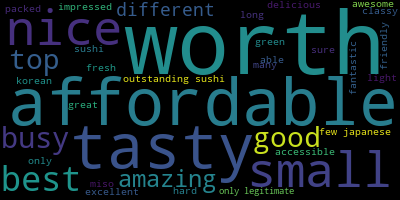
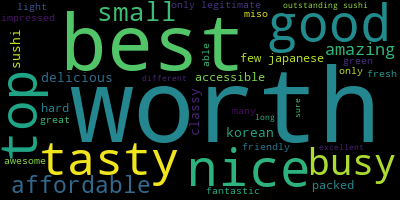
adding wordcloud and google api and new model

diff --git a/digin/templates/polls/detail.html b/digin/templates/polls/detail.html
@@ -63,10 +63,10 @@ input[type=choice] {
 {% csrf_token %}
 {% for choice in choices %}
     <input type="radio" name="choice" id="choice{{ forloop.counter }}" value="{{ choice.id }}" />
-    <label for="choice{{ forloop.counter }}">{{ choice.choice_text }}: {{ choice.votes }} votes
+    <label for="choice{{ forloop.counter }}">{{ choice.name }}: {{ choice.votes }} votes
     	<div class="hover_img">
     	{% load static %}
-	     <a href="#">See tags word cloud<span><img src="{% static img_url %}" alt="image" height="100" /></span></a>
+	     <a href="#">See tags word cloud<span><img src="{% static "" %}{{choice.place_id.place_id}}.png" alt="image" height="100" /></span></a>
 		</div>
     </label>
     <br />
@@ -84,9 +84,7 @@ input[type=choice] {
 
 {% csrf_token %}
     <input id="choice" type="text" name="choice" value="{{ choice }}" maxlength="200" style="width:200px">
-	  <input id="address" type="hidden" name="address" value="" maxlength="200">
-
-    <input id="phone" type="hidden" name="phone" value="" maxlength="200">
+	  
     <input id="placeId" type="hidden" name="placeId" value="" maxlength="200">
 
     <input type="submit" value="Add Choice">
@@ -148,14 +146,12 @@ input[type=choice] {
 	}
 	function onPlaceChanged(){
 		var place=autocomplete.getPlace();
-		var inp_address=document.getElementById("address");
-		inp_address.value=place.formatted_address;
-    var inp_phone=document.getElementById("phone");
-    inp_phone.value=place.formatted_phone_number;
-    var inp_place_id=document.getElementById("placeId");
-    inp_place_id.value=place.place_id;
-    console.log(place);
-    console.log(place.place_id);
+		console.log(place);
+	    var inp_place_id=document.getElementById("placeId");
+	    inp_place_id.value=place.place_id;
+	    console.log(inp_place_id);
+	    console.log(place);
+	    console.log(place.place_id);
     var inp_choice=document.getElementById("choice");
 		choice.value=place.name;
 		console.log(place.formatted_address);

diff --git a/digin/polls/review_views.py b/digin/polls/review_views.py
@@ -3,26 +3,29 @@ from wordcloud import WordCloud, STOPWORDS, ImageColorGenerator
 import matplotlib.pyplot as plt
 import collections
 
-dummy_reviews = [
-"Outstanding sushi / Japanese with a Korean twist cuisine in a beautifully decorated restaurant space.  The produce and food served here are top quality. Service is also uniformly excellent.  This place gets busy at lunch so expect to wait, but it's worth it! The sake don I had was amazing with sushi grade salmon and sushi rice, veggies, seaweed, salmon roe, served with a miso soup. Everyone in my lunch group was very impressed with this restaurant. We will be back!",
-"Been to a few Japanese restaurants in the region and Sakanaya is certainly the one that takes the cake according to to my taste buds. It's a small place, but well worth the wait to experience some tasty fireworks.",
-"The standard for ramen/rolls/sushi in Chambana. It's hard to find this level of quality even in Chicago. Pricey, sure, but there's a reason the place is still always packed. Food = top notch. Service = fantastic. The only downside would be the long lines during peak hours.",
-"The sushi here is awesome, probably the best in Urbana-Champaign",
-"I love coming here for dinner, I have come here many times with friends or on dates. It's always busy since it is so small, so make sure to come early, but it is certainly worth the wait. I love the sushi and the ramen, especially the spider Maki which I order every time. The seaweed salad and miso soup are also really good. Servers are nice.",
-"Best place on Campus town for sushi! Waiters are super friendly and explain all dishes very well. Their ramen is really light and tasty as well.A nice ambience for a classy dinner or date",
-"Sakanaya is the only legitimate sushi and ramen restaurant on campus. It is affordable, on green street, and worth every penny! If you haven't been to Sakanaya, you haven't been to Urbana-Champaign.",
-"If you want some good sushi in Champaign that’s affordable, definitely the place to go!! It’s on campus so it’s super accessible too.",
-"Great place to eat sushi. Fresh and delicious",
-"My husband and I love sushi and are from Wisconsin and crossed our fingers going in because we had never been to this restaurant. The service the moment we walked in was amazing ! We ordered 4 different rolls to share and within 25 minutes we had gotten all our rolls and were able to continue our trip! Highly recommended !",
-	]
+# dummy_reviews = [
+# "Outstanding sushi / Japanese with a Korean twist cuisine in a beautifully decorated restaurant space.  The produce and food served here are top quality. Service is also uniformly excellent.  This place gets busy at lunch so expect to wait, but it's worth it! The sake don I had was amazing with sushi grade salmon and sushi rice, veggies, seaweed, salmon roe, served with a miso soup. Everyone in my lunch group was very impressed with this restaurant. We will be back!",
+# "Been to a few Japanese restaurants in the region and Sakanaya is certainly the one that takes the cake according to to my taste buds. It's a small place, but well worth the wait to experience some tasty fireworks.",
+# "The standard for ramen/rolls/sushi in Chambana. It's hard to find this level of quality even in Chicago. Pricey, sure, but there's a reason the place is still always packed. Food = top notch. Service = fantastic. The only downside would be the long lines during peak hours.",
+# "The sushi here is awesome, probably the best in Urbana-Champaign",
+# "I love coming here for dinner, I have come here many times with friends or on dates. It's always busy since it is so small, so make sure to come early, but it is certainly worth the wait. I love the sushi and the ramen, especially the spider Maki which I order every time. The seaweed salad and miso soup are also really good. Servers are nice.",
+# "Best place on Campus town for sushi! Waiters are super friendly and explain all dishes very well. Their ramen is really light and tasty as well.A nice ambience for a classy dinner or date",
+# "Sakanaya is the only legitimate sushi and ramen restaurant on campus. It is affordable, on green street, and worth every penny! If you haven't been to Sakanaya, you haven't been to Urbana-Champaign.",
+# "If you want some good sushi in Champaign that’s affordable, definitely the place to go!! It’s on campus so it’s super accessible too.",
+# "Great place to eat sushi. Fresh and delicious",
+# "My husband and I love sushi and are from Wisconsin and crossed our fingers going in because we had never been to this restaurant. The service the moment we walked in was amazing ! We ordered 4 different rolls to share and within 25 minutes we had gotten all our rolls and were able to continue our trip! Highly recommended !",
+# 	]
+
 # define the set of valid Part-of-Speeches
 pos = {'ADJ'}
 
 
-def get_wordcloud(restaurant_id):
-	
+
+def generate_wordcloud(place_id, reviews):
+	print(place_id)
+	print(reviews)
 	freq = collections.defaultdict(float)
-	for review in dummy_reviews:
+	for review in reviews:
 		# 1. create a TextRank extractor.
 		extractor = pke.unsupervised.TextRank()
 
@@ -44,7 +47,8 @@ def get_wordcloud(restaurant_id):
 			freq[keyphrase[0]] += 1
 
 	wordcloud = WordCloud().generate_from_frequencies(freq)
-	filename = str(restaurant_id) + ".png"
+	filename = str(place_id) + ".png"
 	plt.imsave("digin/static-asset/" + filename, wordcloud)
-	return filename
+	# plt.imsave(filename, wordcloud)
 
+	return filename

diff --git a/digin/polls/views.py b/digin/polls/views.py
@@ -4,7 +4,7 @@ from django.http import HttpResponseRedirect
 from django.urls import reverse
 from django.views import generic
 
-from .models import Choice, Question, Vote, Poll_members, Archive_question
+from .models import Choice, Question, Vote, Poll_members, Archive_question, Place
 from users.models import CustomUser
 from django.contrib.auth.decorators import login_required
 from django.views.generic import TemplateView
@@ -15,7 +15,7 @@ from django.db.models.expressions import RawSQL
 from django.utils.timesince import timesince
 import collections
 import random
-from .review_views import get_wordcloud
+from .review_views import generate_wordcloud
 from .googleUtil import get_restaurant_attr
 import json
 
@@ -80,8 +80,9 @@ class DetailView(generic.DetailView):
 
     def get_context_data(self, **kwargs):
         context = super(DetailView, self).get_context_data(**kwargs)
-        context['choices'] = Choice.objects.raw("SELECT * FROM polls_choice WHERE question_id = %s",[context["question"].id])
-        context['img_url'] = get_wordcloud(restaurant_id = 2)
+        context["choices"] = Choice.objects.raw("SELECT * FROM polls_choice WHERE question_id = %s",[context["question"].id])
+        
+        
         if context["question"].is_active is False:
             context["winner"] = Choice.objects.get(id=Archive_question.objects.get(question=context["question"]).best_choice.id)
             return context
@@ -95,7 +96,6 @@ class DetailView(generic.DetailView):
         # print(context["question"].deadline - timezone.now() > 0)
         ## the context is a list of the tasks of the Project##
         ##THIS IS THE ERROR##
-        
         
         return context
 
@@ -166,10 +166,7 @@ def addChoice(request, question_id):
 
     current_user=request.user
     inp_value = request.POST.get('choice')
-    inp_address=request.POST.get('address')
-    print(inp_address)
-    inp_phone=request.POST.get('phone')
-    print(inp_phone)
+    
     place_id=request.POST.get('placeId')
     print("place_id:{}".format(place_id))
     if place_id != "":
@@ -180,13 +177,30 @@ def addChoice(request, question_id):
         question = Question.objects.raw("SELECT * FROM polls_question WHERE id = %s", [question_id])[0]
     except Question.DoesNotExist:
         raise Http404("Question does not exist")
+
+    generate_wordcloud(place_id, attrs[6])
+    print(attrs)
+    attrs[6] = json.dumps(attrs[6])
     cursor = connection.cursor()
-    
-    cursor.execute("INSERT INTO polls_choice"
-                "(choice_text, votes, owner_id, question_id, address, phone, rating, price_level, place_id, reviews, latitude, longitude, website)"
-                "VALUES (%s,   %s,    %s,       %s,          %s,      %s,    %s,     %s,          %s,       %s,       %s,       %s,       %s)",
-                [attrs[0], 0, request.user.id, question_id, attrs[1], attrs[2], attrs[3], attrs[4], attrs[5], json.dumps(attrs[6]), attrs[7], attrs[8], attrs[9]]
-                )
+
+    place = Place.objects.raw("SELECT * FROM polls_place WHERE place_id=%s", [attrs[5]])
+    # print(place)
+    # print(type(place))
+    if (len(list(place))==0):
+        cursor.execute("INSERT INTO polls_place"
+                    "(name, address, phone, rating, price_level, place_id, reviews, latitude, longitude, website)"
+                    "VALUES (%s, %s, %s, %s, %s, %s, %s, %s, %s, %s)",
+                    attrs
+                    )
+    choice = Choice.objects.raw("SELECT * FROM polls_choice WHERE place_id=%s AND question_id=%s", [attrs[5], question_id])
+    if (len(list(choice)) == 0):
+        cursor.execute("INSERT INTO polls_choice"
+                    "(question_id, owner_id, place_id, name, votes)"
+                    "VALUES (%s, %s, %s, %s, 0)",
+                    [question_id, current_user.id, attrs[5], attrs[0]]
+                    )
+
+
     # question.choice_set.create(choice_text=inp_value,votes=0,owner=request.user)
     return HttpResponseRedirect(reverse('polls:detail', args=(question.id,)))
     

diff --git a/digin/polls/models.py b/digin/polls/models.py
@@ -21,6 +21,20 @@ class Poll_members(models.Model):
 	member = models.ForeignKey(User, on_delete=models.CASCADE)
 
 	
+
+class Place(models.Model):
+	name = models.CharField(max_length=200)
+	phone = models.CharField(max_length=200, blank=True)
+	address = models.CharField(max_length=200)
+	price_level = models.IntegerField(blank=True)
+	rating = models.IntegerField()
+	latitude = models.IntegerField()
+	longitude = models.IntegerField()
+	place_id = models.CharField(max_length=200, unique=True)
+	website = models.CharField(max_length=200, blank=True)
+	reviews = models.CharField(max_length=10000)
+
+
 class Choice(models.Model):
 	'''
 	need to have unique field of question and choice_text
@@ -28,24 +42,13 @@ class Choice(models.Model):
 	question = models.ForeignKey(Question, on_delete=models.CASCADE)
 	votes = models.IntegerField(default=0)
 	owner =  models.ForeignKey(User, on_delete=models.CASCADE)
+	place_id = models.ForeignKey(Place, to_field="place_id", db_column="place_id", on_delete=models.CASCADE)
+	name = models.CharField(max_length=200)
 	
-	choice_text = models.CharField(max_length=200)
-	phone = models.CharField(max_length=200, blank=True)
-	address = models.CharField(max_length=200)
-	price_level = models.IntegerField(blank=True)
-	rating = models.IntegerField()
-	latitude = models.IntegerField()
-	longitude = models.IntegerField()
-	place_id = models.CharField(max_length=200)
-	website = models.CharField(max_length=200, blank=True)
-	reviews = models.CharField(max_length=2000)
-
-	def __str__(self):
-		return self.choice_text
 
 class Archive_question(models.Model):
 	question = models.ForeignKey(Question, on_delete=models.CASCADE)
-	best_choice = models.ForeignKey(Choice, on_delete=models.CASCADE)
+	place_id = models.ForeignKey(Place, to_field="place_id", db_column="place_id", on_delete=models.CASCADE)
 
 
 class Vote(models.Model):

diff --git a/digin/polls/migrations/0001_initial.py b/digin/polls/migrations/0001_initial.py
@@ -1,4 +1,4 @@
-# Generated by Django 2.1.7 on 2019-04-15 23:55
+# Generated by Django 2.1.7 on 2019-04-16 20:04
 
 from django.db import migrations, models
 import django.db.models.deletion
@@ -22,8 +22,22 @@ class Migration(migrations.Migration):
             name='Choice',
             fields=[
                 ('id', models.AutoField(auto_created=True, primary_key=True, serialize=False, verbose_name='ID')),
-                ('choice_text', models.CharField(max_length=200)),
-                ('votes', models.IntegerField(default=0)),
+            ],
+        ),
+        migrations.CreateModel(
+            name='Place',
+            fields=[
+                ('id', models.AutoField(auto_created=True, primary_key=True, serialize=False, verbose_name='ID')),
+                ('name', models.CharField(max_length=200)),
+                ('phone', models.CharField(blank=True, max_length=200)),
+                ('address', models.CharField(max_length=200)),
+                ('price_level', models.IntegerField(blank=True)),
+                ('rating', models.IntegerField()),
+                ('latitude', models.IntegerField()),
+                ('longitude', models.IntegerField()),
+                ('place_id', models.CharField(max_length=200, unique=True)),
+                ('website', models.CharField(blank=True, max_length=200)),
+                ('reviews', models.CharField(max_length=10000)),
             ],
         ),
         migrations.CreateModel(

diff --git a/digin/users/migrations/0001_initial.py b/digin/users/migrations/0001_initial.py
@@ -1,4 +1,4 @@
-# Generated by Django 2.1.7 on 2019-04-15 23:55
+# Generated by Django 2.1.7 on 2019-04-16 20:04
 
 import django.contrib.auth.models
 import django.contrib.auth.validators
@@ -34,8 +34,8 @@ class Migration(migrations.Migration):
                 ('user_permissions', models.ManyToManyField(blank=True, help_text='Specific permissions for this user.', related_name='user_set', related_query_name='user', to='auth.Permission', verbose_name='user permissions')),
             ],
             options={
-                'verbose_name_plural': 'users',
                 'verbose_name': 'user',
+                'verbose_name_plural': 'users',
                 'abstract': False,
             },
             managers=[
